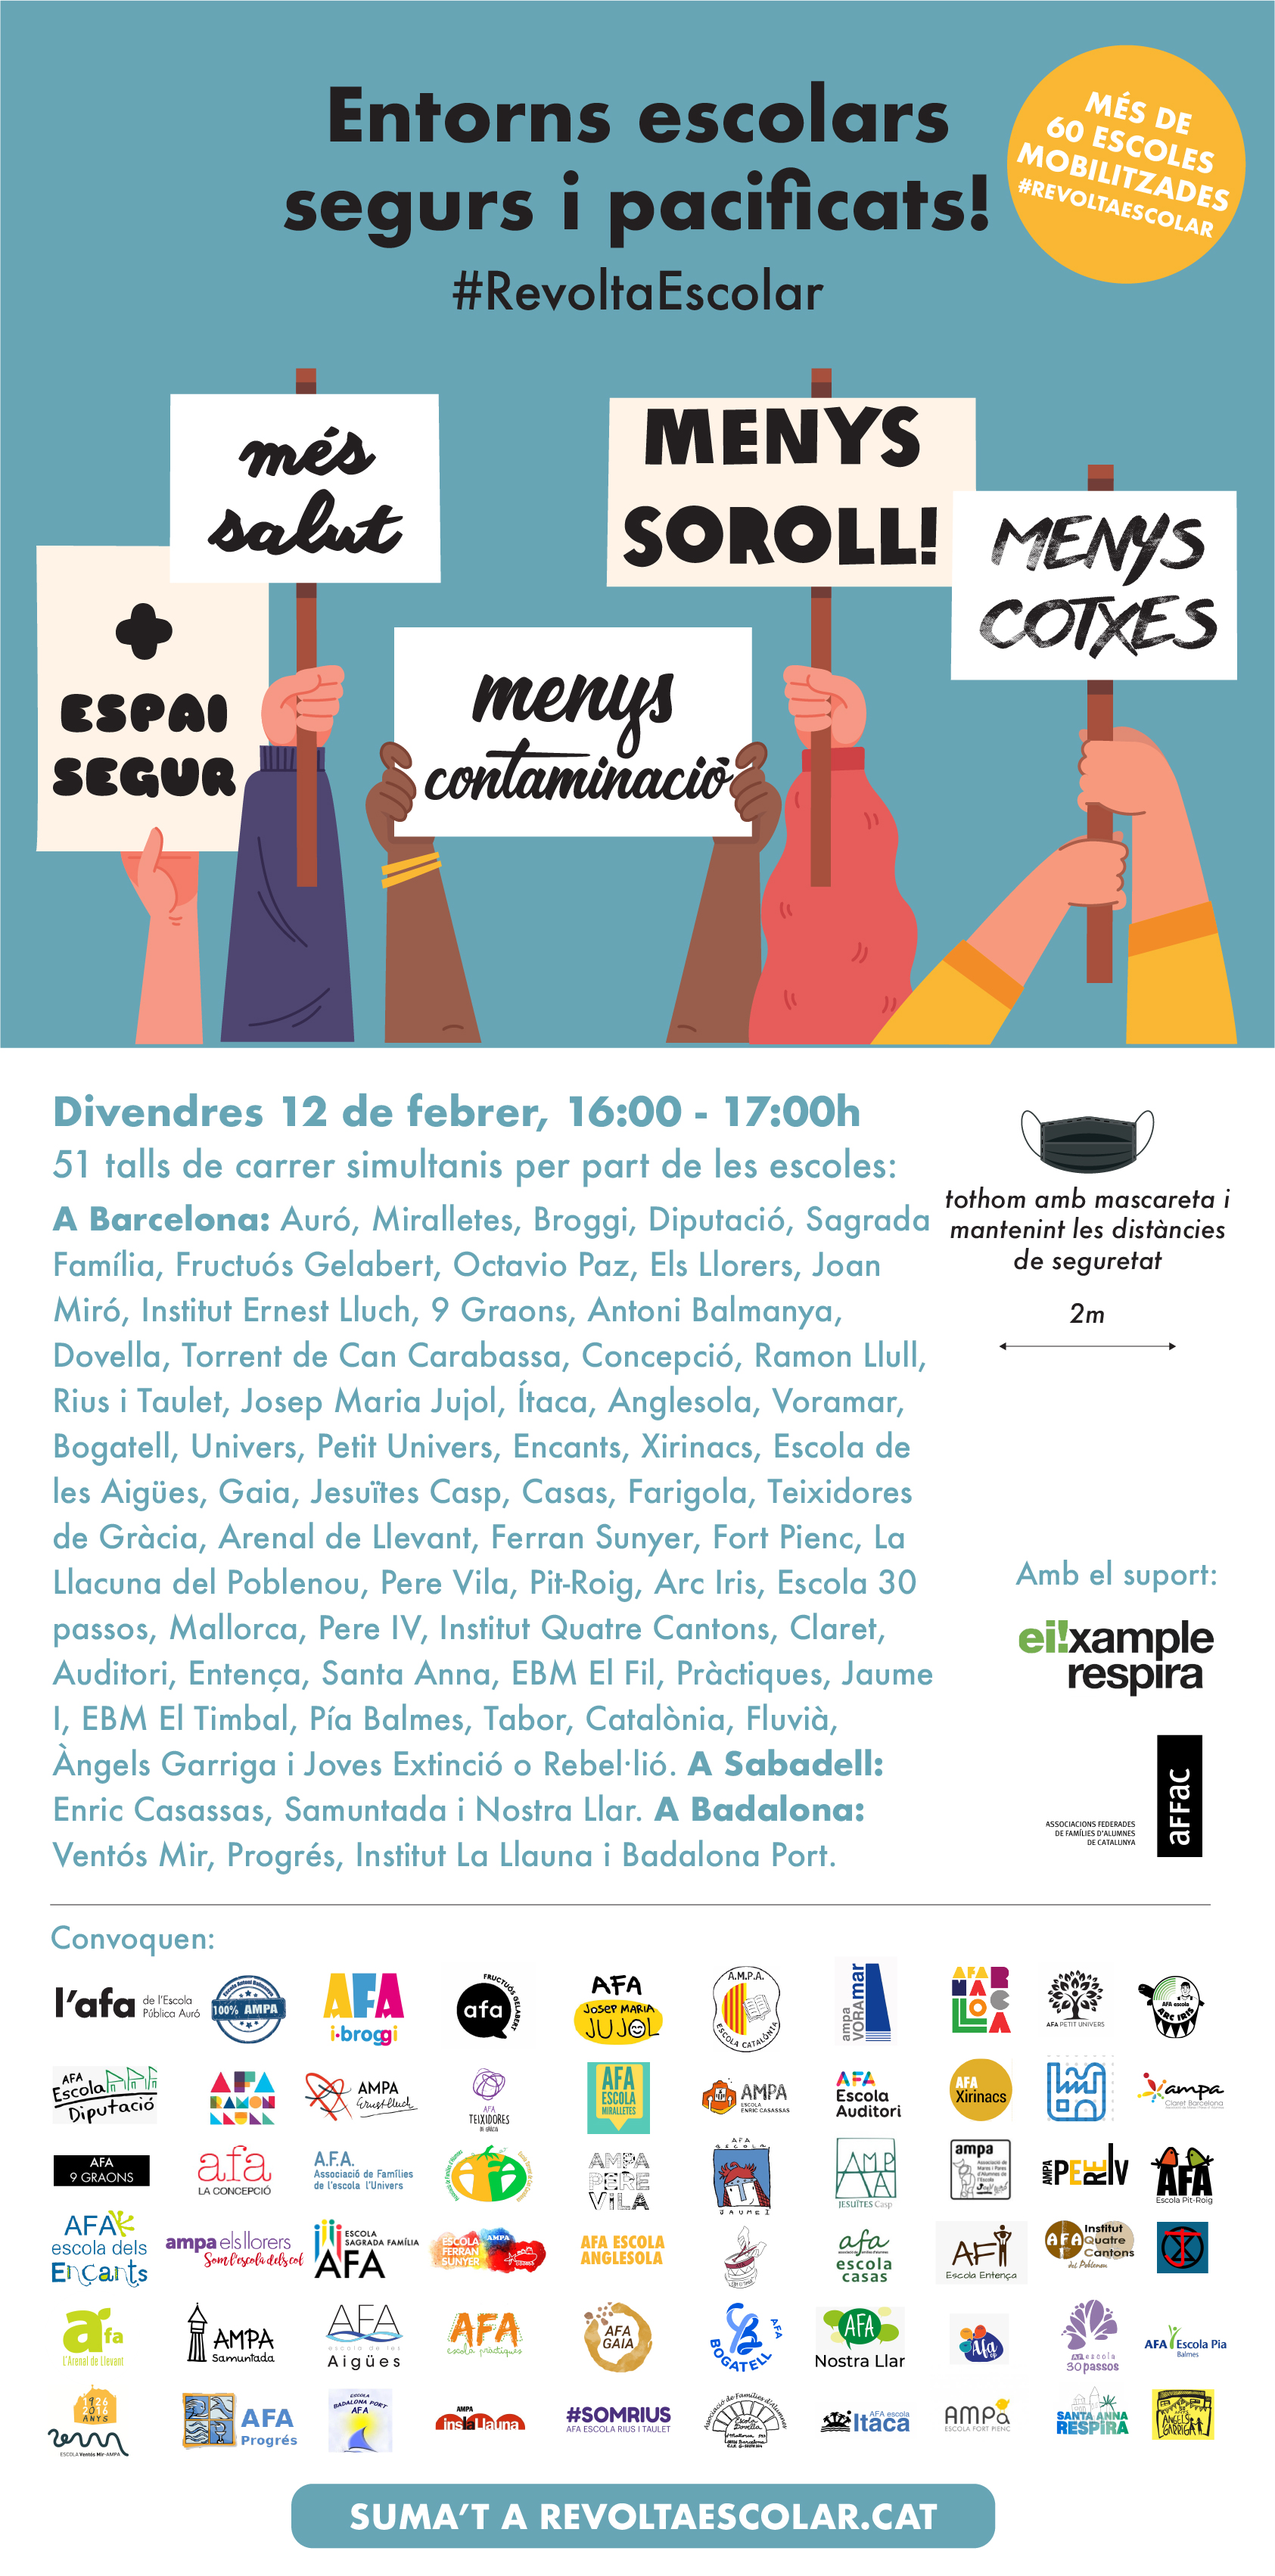
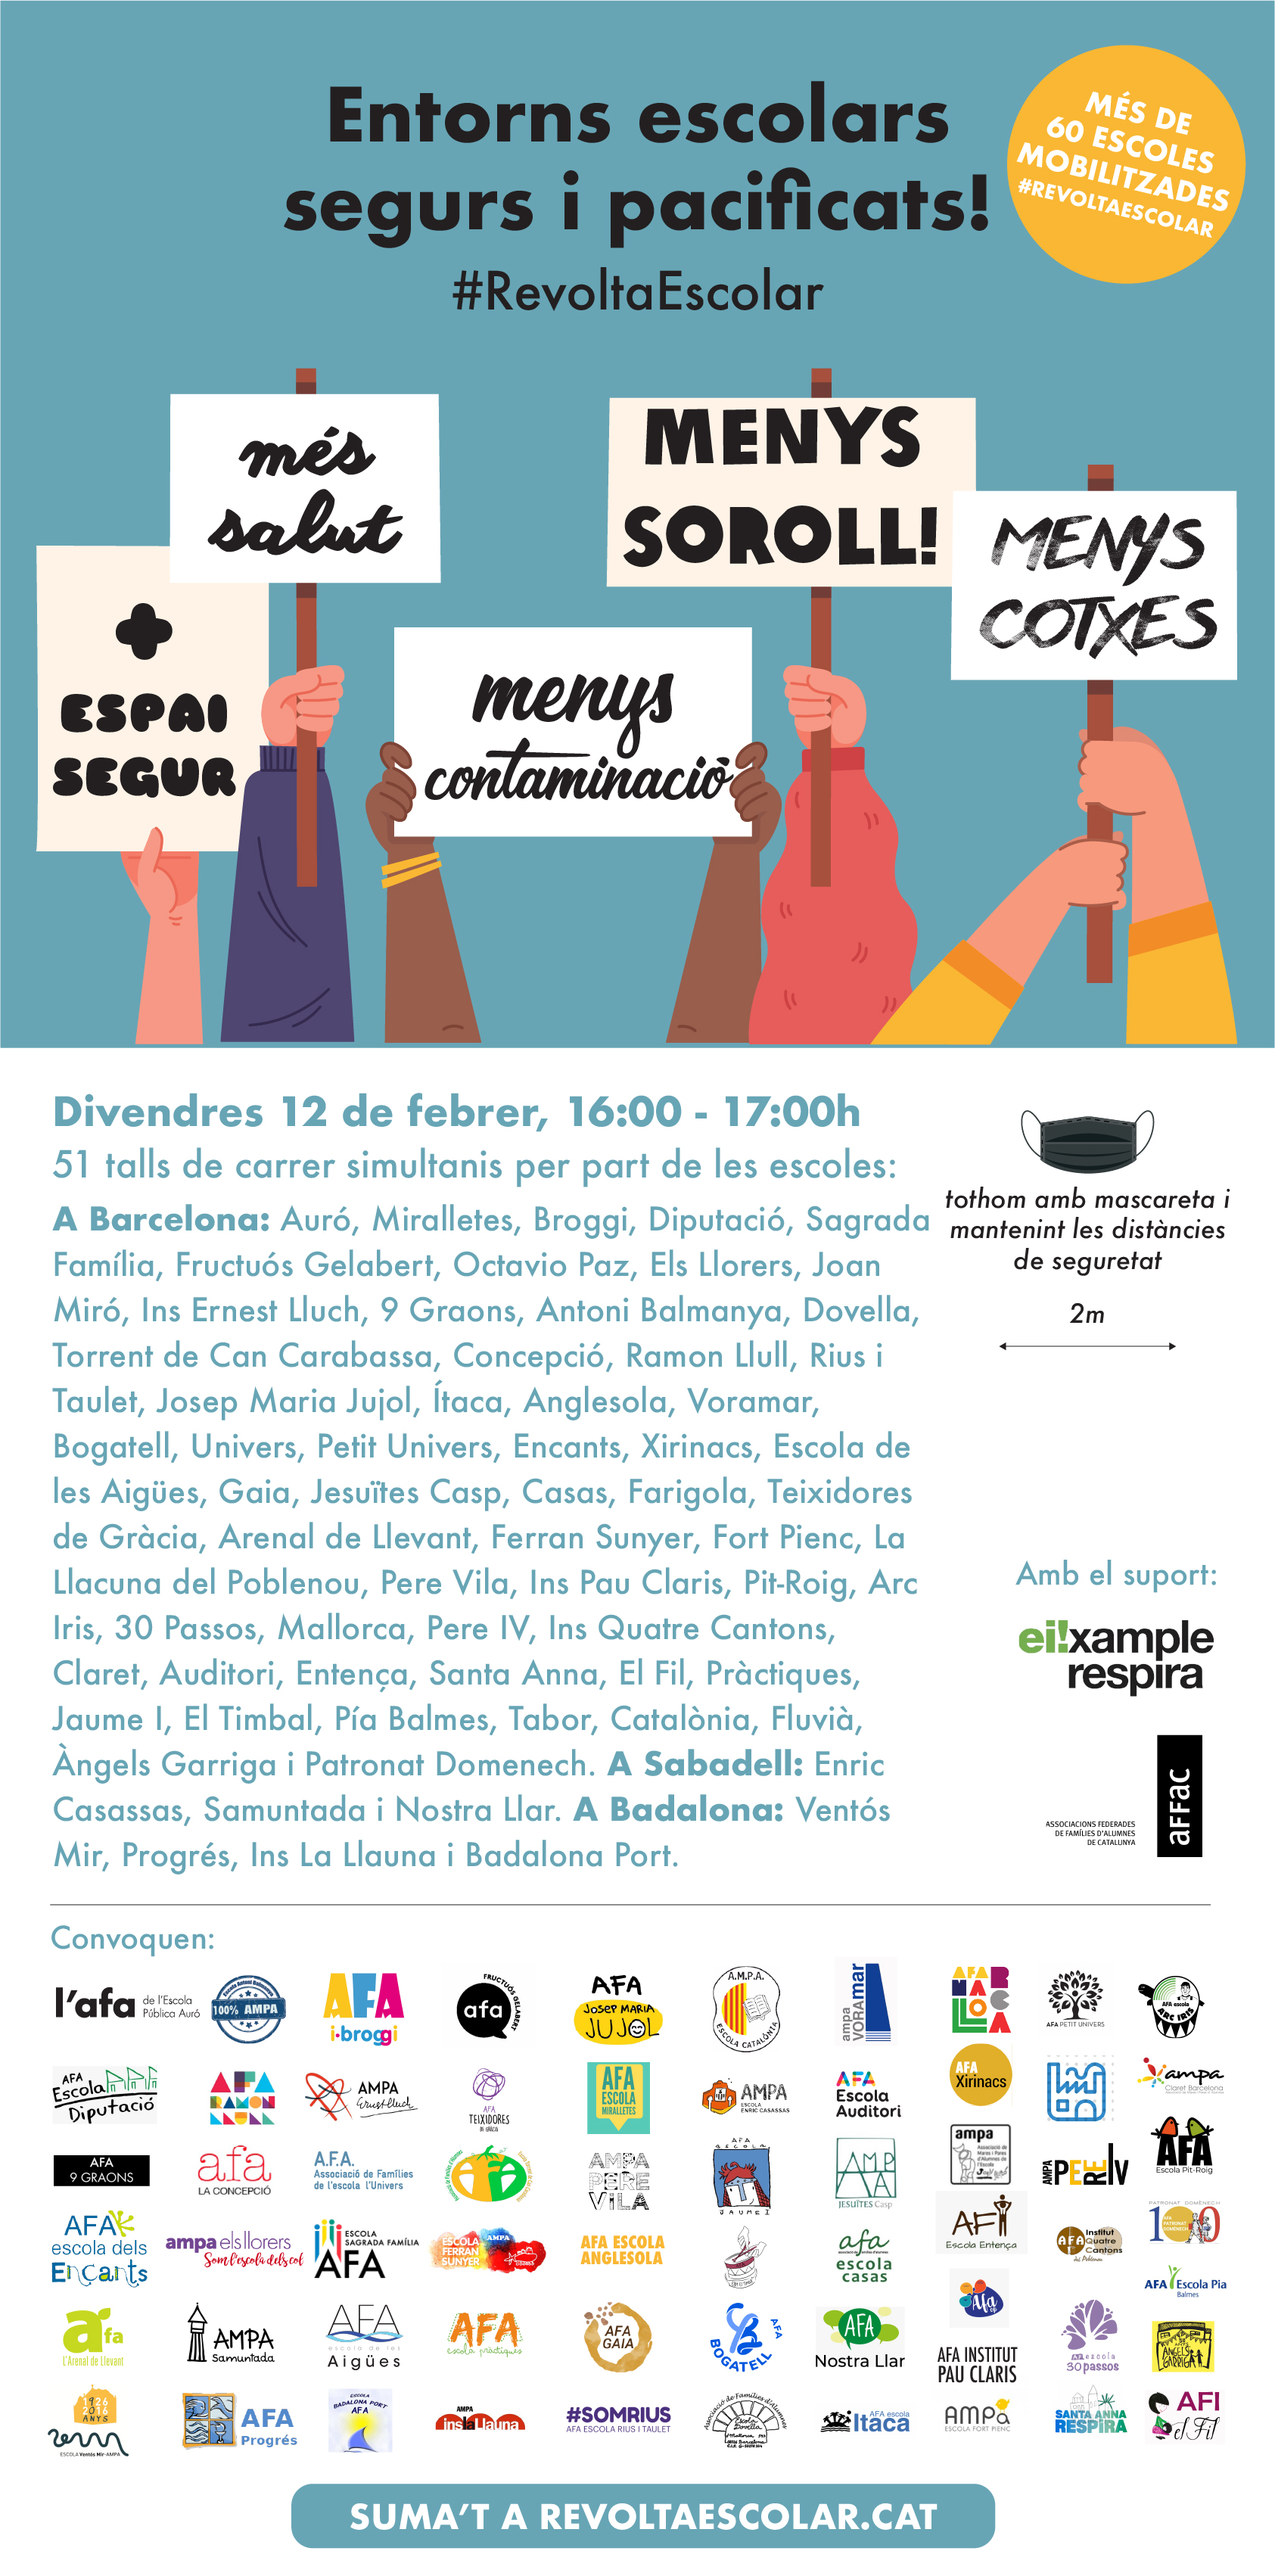
Added link to poster

diff --git a/index.html b/index.html
@@ -33,10 +33,10 @@
         <img src="/images/mapa-barcelona.jpg">
         <p>La protesta no para de crecer. Se está extendiendo a más ciudades. Por lo que sería genial si desde vuestra AFA o AMPA también os animárais a participar!</p>
         <h2>¿Cuando serán las próximas protestas?</h2>
-        <p>Es importante, para tener una mayor repercusión, que vayamos todos a una. Por eso hemos marcado las siguientes fechas: 12 de febrero, 26 de febrero, 12 de marzo, 26 de marzo, etc. Todas en viernes, cada 15 dies, y a la hora de la salida del colegio.</p>
+        <p>Es importante, para tener una mayor repercusión, que vayamos todos a una. Por eso hemos marcado las siguientes fechas: 12 de febrero, 26 de febrero, 12 de marzo, 26 de marzo, etc. Todas en viernes, cada 15 días, y a la hora de la salida del colegio.</p>
         <h2>¿Qué deberíamos hacer para sumarnos?</h2>
-        <p>Primero de todo, el AFA o AMPA de vuestro centro, debería aprobar en junta añadirse a la protesta. Una vez aprobado, tendréis que notificar a la delegación del gobierno de vuestra ciudad la fecha, hora y lugar del corte de calle. De esta forma será la policía municipal la que realizará el corte de tráfico, garantizando de esta forma vuestra seguridad.</p>
-        <p>Segundo, deberéis hacer el máximo de difusión del dia, hora y lugar de la protesta. Tanto a las famílias del colegio, como a los vecinos y entidades del barrio. En <a href="">este enlace</a> podéis adaptar y descargaros el cartel que estamos utilizando en el resto de protestas.</p>
+        <p>En primer lugar, el AFA o AMPA de vuestro centro, debería aprobar en junta añadirse a la protesta. Una vez aprobado, tendréis que notificar a la delegación del gobierno de vuestra ciudad la fecha, hora y lugar del corte de calle. De esta forma será la policía municipal la que realizará el corte de tráfico, garantizando de esta forma vuestra seguridad.</p>
+        <p>Segundo, deberéis hacer el máximo de difusión del día, hora y lugar de la protesta. Tanto a las familias del colegio, como a los vecinos y entidades del barrio. En <a href="">este enlace</a> podéis adaptar y descargaros el cartel que estamos utilizando en el resto de protestas.</p>
         <div class="menu">
           <div class="button">
             <a href="poster" style="background: #F28C27">Descárgate el cartel</a>
@@ -59,7 +59,7 @@
             <a href="mailto:eixample.respira@gmail.com?subject=Notificaci%C3%B3n%20corte%20de%20calle%20del%20%5BNOMBRE%20DE%20VUESTRA%20AFA%20O%20AMPA%5D&body=Hola%2C%0D%0A%0D%0AOs%20escribimos%20para%20notificaros%20que%20haremos%20el%20siguiente%20corte%20de%20calle%2C%20para%20que%20as%C3%AD%20lo%20pod%C3%A1is%20a%C3%B1adir%20a%20la%20comunicaci%C3%B3n%20unitaria%20de%20la%20protesta%3A%0D%0A%0D%0A-%20municipio%3A%20%5BMUNICIPIO%5D%0D%0A-%20fecha%20del%20corte%20de%20calle%3A%20%5BFECHA%5D%0D%0A-%20ubicaci%C3%B3n%3A%20%5BCALLE%20X%20con%20CALL%20Y%5D%0D%0A-%20hora%20del%20corte%3A%20%5BHH%3AMM%5D%0D%0A-%20participan%3A%20%5BAFA%20o%20AMPA%20X%2C%20AFA%20o%20AMPA%20Y%2C...%5D%0D%0A%0D%0AGracias%2C%0D%0A%0D%0AAFA%20o%20AMPA%20X" target="_blank" style="background: #F9B733;">Notificar la protesta</a>
           </div>
         </div>
-        <p>Si tienes cualquier consulta o pregunta, no dudeis en contactarnos en <a href="mailto:eixample.respira@gmail.com">eixample.respira@gmail.com</a> o en el teléfono <a href="tel:620426435">620426435</a>.</p>
+        <p>Si tienes cualquier consulta o pregunta, no dudéis en contactarnos en <a href="mailto:eixample.respira@gmail.com">eixample.respira@gmail.com</a> o en el teléfono <a href="tel:620426435">620426435</a>.</p>
       </div>
     </div>
   </div>

diff --git a/tool.css b/tool.css
@@ -28,7 +28,7 @@ body.tool {
 body.downloading .container{
   transform: scale(1);
   width: 1685px;
-  height: 2382px;
+  height: 2450px;
 }
 body.downloading .layout {
   display: block;
@@ -42,7 +42,7 @@ body.downloading .setup {
 }
 body.downloading .poster img {
   width: 1685px;
-  height: 2382px;
+  height: 2383px;
 }
 body.downloading {
   opacity: 0;
@@ -52,11 +52,11 @@ body.downloading {
   position: relative;
   background: white;
   width: 1685px;
-  height: 2382px;
+  height: 2450px;
 }
 .poster img {
-  height: 100%;
-  width: 100%;
+  width: 1685px;
+  height: 2383px;
   display: block;
 }
 .poster .subtitle {
@@ -91,8 +91,9 @@ body.downloading {
   top: 2040px;
   left: 74px;
   right: 74px;
-  bottom: 45px;
-  border-top: 2px solid #231F20;
+  bottom: 120px;
+  border-top: 2px solid #67A5B5;
+  padding-top: 20px;
   text-align: left;
   overflow: hidden;
   display: flex;
@@ -100,7 +101,6 @@ body.downloading {
   flex-wrap: nowrap;
 }
 .poster .logos .section{
-  padding-top: 30px;
   width: 100%;
 }
 .poster .logos .section.summons {
@@ -112,7 +112,6 @@ body.downloading {
   font-size: 46px;
   color: #67A5B5;
   text-transform: none;
-  color: #231F20;
 }
 .poster .logos .section .images{
   display: flex;
@@ -133,7 +132,27 @@ body.downloading {
 .poster .support-affac{
   order: 2;
 }
-
+.poster .url {
+  position: absolute;
+  top: 2350px;
+  left: 74px;
+  right: 74px;
+  bottom: 20px;
+  padding-top: 0px;
+  text-align: left;
+  overflow: hidden;
+}
+.poster .url .text{
+  font-family: 'Ursula';
+  font-size: 46px;
+  color: #67A5B5;
+  text-transform: none;
+  text-align: right;
+}
+.poster .url .text u{
+  text-decoration: none;
+  border-bottom: 2px solid;
+}
 .setup {
   padding: 20px;
   width: 100%;

diff --git a/poster.html b/poster.html
@@ -8,14 +8,14 @@
   <link rel="preconnect" href="https://fonts.gstatic.com">
   <link href="https://fonts.googleapis.com/css2?family=Oswald:wght@400;700&display=swap" rel="stylesheet">
   <link href="https://fonts.googleapis.com/css2?family=Open+Sans:wght@400;600&display=swap" rel="stylesheet">
-  <link href="/application.css?v=7" media="all" rel="stylesheet" />
+  <link href="/application.css?v=8" media="all" rel="stylesheet" />
   <link href="/tool.css?v=7" media="all" rel="stylesheet" />
   <script src="https://cdnjs.cloudflare.com/ajax/libs/jquery/3.5.0/jquery.min.js" integrity="sha256-xNzN2a4ltkB44Mc/Jz3pT4iU1cmeR0FkXs4pru/JxaQ=" crossorigin="anonymous"></script>
   <script src="https://cdnjs.cloudflare.com/ajax/libs/jquery-csv/0.71/jquery.csv-0.71.min.js"></script>
   <script src="/js/html2canvas.min.js"></script>
   <script src="/js/canvas2image.js"></script>
   <script src="/js/sticky-kit.min.js"></script>
-  <script src="/application.js?v=7"></script>
+  <script src="/application.js?v=8"></script>
 </head>
 <body class="tool">
   <div class="layout">
@@ -109,6 +109,9 @@
               <div class="images">
               </div>
             </div>
+          </div>
+          <div class="url">
+            <div class="text">Más información en: <u>www.revueltaescolar.es</u></div>
           </div>
         </div>
       </div>  

diff --git a/application.js b/application.js
@@ -52,7 +52,7 @@ $(document).ready(function() {
 
       var scale = window.is_touch_device && $(window).width() <= 500 ? 0.5 : 1;
       html2canvas(document.querySelector(".poster"), {scale: scale}).then(canvas => {
-        Canvas2Image.saveAsPNG(canvas, 2 * 1685, 2 * 2382);
+        Canvas2Image.saveAsPNG(canvas, 2 * 1685, 2 * 2450);
         $('body').removeClass('downloading');
       });
     });
